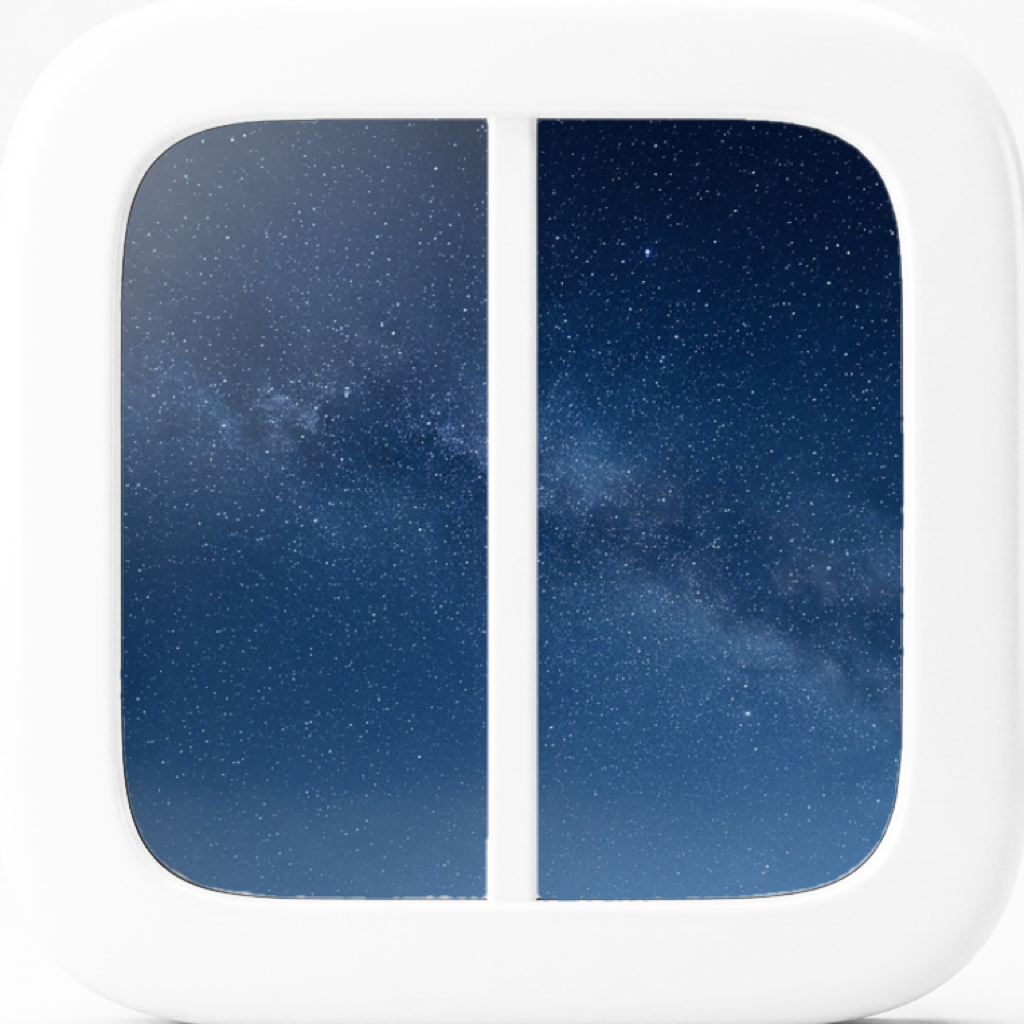
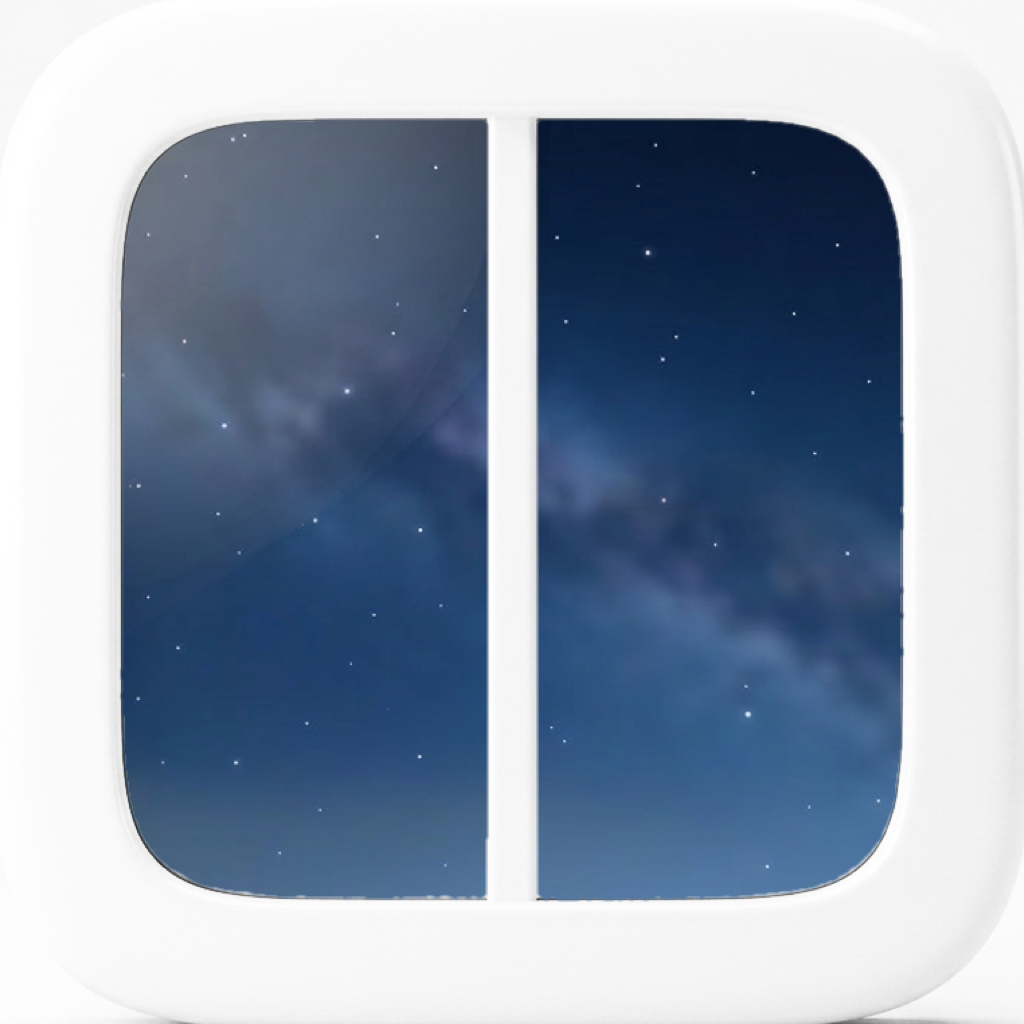
Settle the Night and Sunset skies
The user found the first cartoon Night and Sunset too loud ("less is
more"), so five quieter options of each were made (Paper: 01.16). Night
takes the quietest: the realistic sky with fewer, cleaner small stars,
which is also the icon under the dark icon style and the README's dark
logo. Sunset took a quiet option, then, seen on the boards, went back to
its first cartoon: a round sun on a calm sea under puffy gold clouds.
Paper's boards show both.

Changed region(s): [[0.25, 0.375, 0.3438, 0.4375], [0.4062, 0.4062, 0.4688, 0.4688], [0.5312, 0.4375, 0.5625, 0.4688]]

diff --git a/docs/adr/0089-app-icon-is-a-window-the-user-picks-its-sky.md b/docs/adr/0089-app-icon-is-a-window-the-user-picks-its-sky.md
@@ -1,6 +1,6 @@
 # Pane's icon is a window, and the user picks its sky
 
-Pane's icon is a real window: a white enamel frame, two panes, and a mullion, with the sky behind the glass. It was rendered in Magnific with ten skies, and the user kept all ten and asked that Pane's users pick one (Paper: 01.2). The ten are Day, a clear blue sky with no sun, Clouds, Morning, Dusk, Fuchsia, Sunset, Twilight, Afterglow, Night, and Moonrise. Fuchsia carries the colours of a drawn direction the user liked (01.5, P2), which its render took as reference. Clouds' clouds are cartoon ones, at the user's request (2026-10-29): its render was redone in Magnific with the earlier one as reference, so the sky, the glass, and the clouds' places stay, and the clouds became round, puffy shapes with soft light and volume. The user liked it and asked for every sky in that style. Day, Morning, Dusk, Fuchsia, Twilight, Afterglow, and Moonrise were redone the same way and approved one by one (Paper: 01.15). Each keeps its colours and its elements in the same places. Day's render keeps its own frame, since every icon takes its frame from it, and only its glass is the new sky. Night and Sunset came out too loud, the user's words being "less is more". They stay realistic until the user picks one of the quieter options (Paper: 01.16). The user also asked that the icon follow light and dark. Settings › Appearance › App icon offers Automatic, the default, then the ten. Automatic shows Day while the app's appearance is light and Night while it is dark: the theme sets that appearance (ADR 0001), and under system the Mac does.
+Pane's icon is a real window: a white enamel frame, two panes, and a mullion, with the sky behind the glass. It was rendered in Magnific with ten skies, and the user kept all ten and asked that Pane's users pick one (Paper: 01.2). The ten are Day, a clear blue sky with no sun, Clouds, Morning, Dusk, Fuchsia, Sunset, Twilight, Afterglow, Night, and Moonrise. Fuchsia carries the colours of a drawn direction the user liked (01.5, P2), which its render took as reference. Clouds' clouds are cartoon ones, at the user's request (2026-10-29): its render was redone in Magnific with the earlier one as reference, so the sky, the glass, and the clouds' places stay, and the clouds became round, puffy shapes with soft light and volume. The user liked it and asked for every sky in that style. Day, Morning, Dusk, Fuchsia, Twilight, Afterglow, and Moonrise were redone the same way and approved one by one (Paper: 01.15). Each keeps its colours and its elements in the same places. Day's render keeps its own frame, since every icon takes its frame from it, and only its glass is the new sky. Night and Sunset came out too loud, the user's words being "less is more", and five quieter options of each were made (Paper: 01.16). Night took the quietest, the realistic sky with fewer, cleaner stars. Sunset took a quiet option first, then, once the user saw it on the boards, went back to its first cartoon. The user also asked that the icon follow light and dark. Settings › Appearance › App icon offers Automatic, the default, then the ten. Automatic shows Day while the app's appearance is light and Night while it is dark: the theme sets that appearance (ADR 0001), and under system the Mac does.
 
 The row shows the chosen icon alone. A click opens a dialog over the window, as Quit Pane? is drawn (Paper: 06.2). It holds every sky as a tile, six a row: the icon at 56 points over its name, the chosen one ringed as the profile sheet's swatch is. The ring sits 2 to 4 points out from the icon's body, on the system's corner (continuous, 0.257 of the side, measured on macOS 27). A click applies a sky at once and the Dock follows, so the dialog stays open to compare. Done, Return, Esc, or a click outside closes it (KeyRouting). Choosing is instant, and hover fades (DESIGN.md).
 
